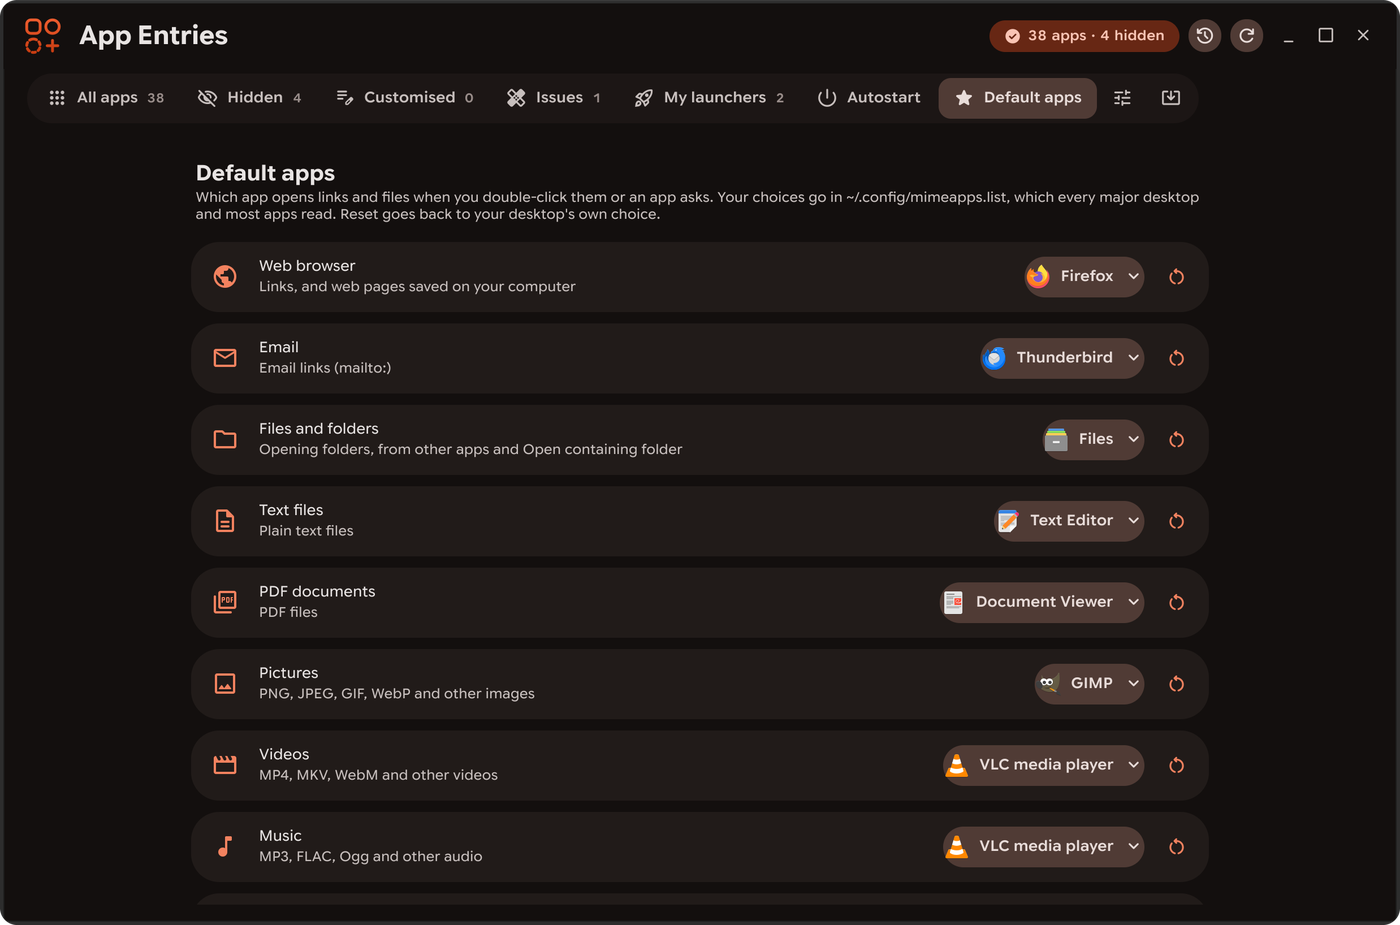
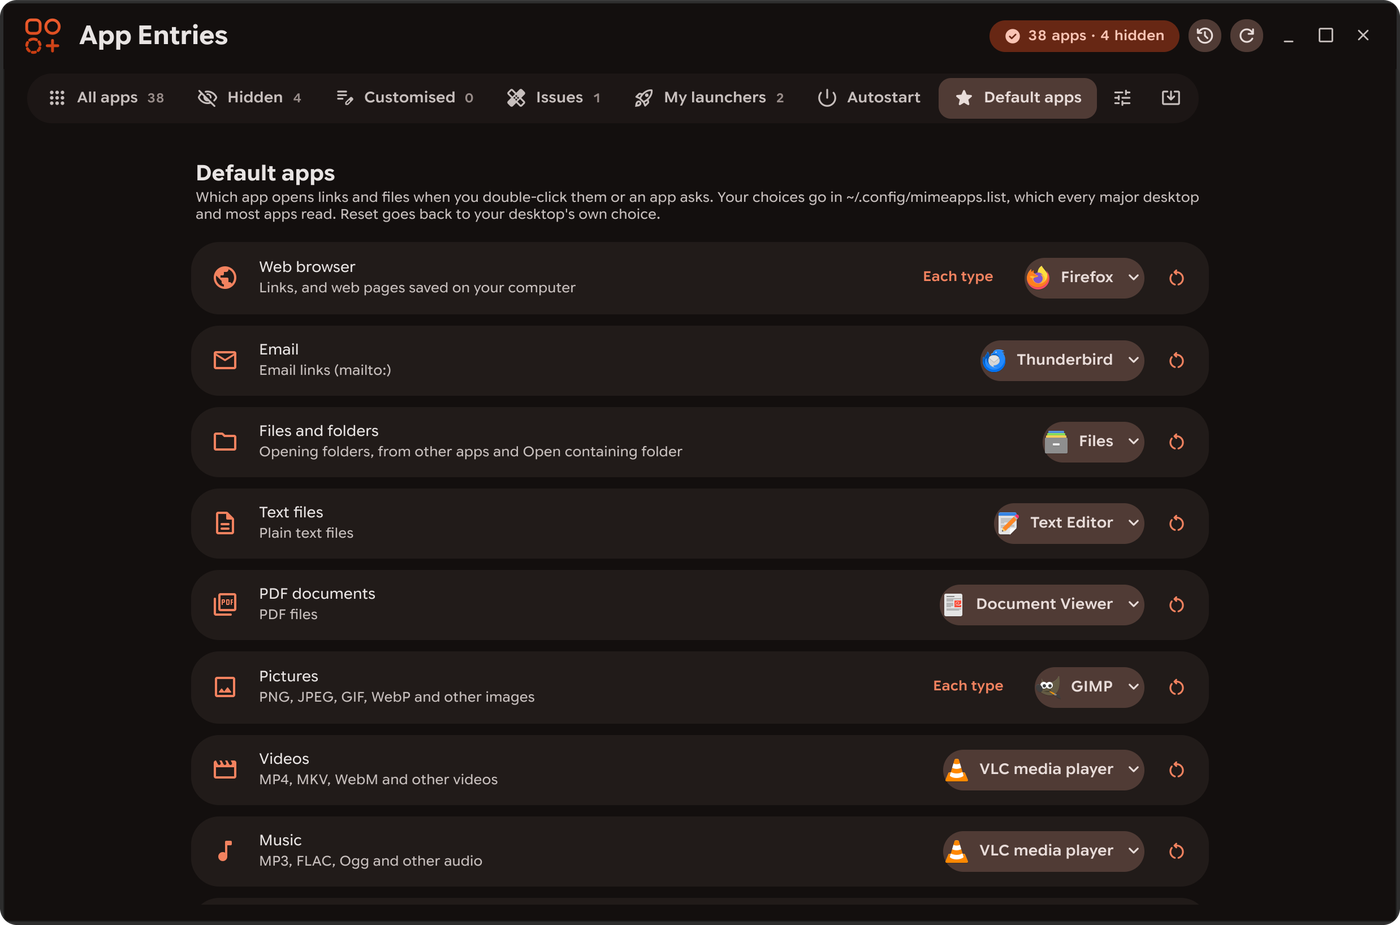
Release 1.0.7
Docs for the new features, new main and Default apps screenshots, and
the version in the usual places.

Claude-Session: https://claude.ai/code/session_01DRNCbezi7H5oaU6kT7mK9G

diff --git a/app_entries/__init__.py b/app_entries/__init__.py
@@ -2,4 +2,4 @@
 
 APP_ID = "io.github.HypestHyper.AppEntries"
 APP_NAME = "App Entries"
-VERSION = "1.0.6"
+VERSION = "1.0.7"

diff --git a/README.md b/README.md
@@ -9,7 +9,7 @@
 </p>
 
 <p align="center">
-  <img alt="Version 1.0.6" src="https://img.shields.io/badge/version-1.0.6-1f9e80">
+  <img alt="Version 1.0.7" src="https://img.shields.io/badge/version-1.0.7-1f9e80">
   <img alt="License: MIT" src="https://img.shields.io/badge/license-MIT-blue">
   <img alt="Linux" src="https://img.shields.io/badge/platform-Linux-informational">
   <img alt="Python 3.9+" src="https://img.shields.io/badge/python-3.9%2B-3776AB">
@@ -40,8 +40,10 @@
 - Hide or show an app with one switch. Hidden apps still open links and files, and stay in "Open With".
 - **Select several** to hide, show, restore, restyle or uninstall many apps at once.
 - **Edit** any entry (name, icon, command, environment, folders, desktops, quick actions) with a live view of the file. Editing a system app saves your own copy; *Restore original* puts it back.
+- **Open** any app from its card, hidden ones included. Sort A–Z or newest first; apps that appeared since App Entries last looked are marked New.
 - **Issues** finds leftover files, missing programs and duplicates, and explains each with a button to fix it.<br>
   <a href="docs/screenshots/issues.png"><img alt="The Issues tab listing an entry whose program isn't installed, with a button to hide it" src="docs/screenshots/issues.png" width="400"></a>
+- Apps you edited and then uninstalled some other way are hidden from menus with your edits kept, and the edits apply again if you reinstall. Both are options in Issues, each done once with Undo.
 - When a tab is empty because of the search, the source or the Hidden and Not in menus switches, it says how many apps they leave out, with a button to lift each.
 - **Uninstall…** for Flatpak, Snap, AppImage, Steam, Distrobox and system packages (pacman, apt, dnf, zypper, rpm-ostree, xbps, apk, eopkg, Portage and Nix). Before anything runs it shows what goes, which other apps and packages need it or go with it, whether it's a default app or starts at login, and the exact command. Data folders and advanced options (like removing what depends on it) are off unless you turn them on, with warnings. Commands that need a password run in your terminal; packages the system or your desktop needs are never offered. History keeps a Reinstall button.
 - **Helper apps…** shortcuts to the apps that set up what App Entries doesn't, opened on that app where they allow it: Flatseal, Warehouse, Gear Lever, ProtonUp-Qt, Protontricks, BoxBuddy, DistroShelf, GNOME Settings' and KDE's app permissions, your software centre and Steam. Missing ones show what they do and the Flathub command, run in your terminal only if you ask.
@@ -59,7 +61,7 @@
 
 **More**
 - **Autostart**: turn login programs on and off, or add your own.
-- **Default apps**: choose which app opens links, email, folders, text, PDFs, pictures, videos, music and archives. Uses the standard `mimeapps.list`, and also updates Xfce's and KDE's own browser settings.<br>
+- **Default apps**: choose which app opens links, email, folders, text, PDFs, pictures, videos, music and archives, for a whole kind or each type on its own. **By app** lists every file type one app opens (File types… on its card) and makes it the default for any of them. Uses the standard `mimeapps.list`, and also updates Xfce's and KDE's own browser settings.<br>
   <a href="docs/screenshots/default-apps.png"><img alt="The Default apps tab: web browser, email, files, text, PDFs, pictures, videos and music, each with the app that opens them" src="docs/screenshots/default-apps.png" width="400"></a>
 - **History** of every change, each with Undo, kept between sessions.
 - **Export / Import** your changes to set up another computer.
@@ -68,7 +70,7 @@
 - Light and dark themes and a responsive layout. The accent can follow your desktop's (GNOME and KDE settings, or the colours Noctalia, matugen, wallust and other theme tools write for GTK apps), and palettes like Catppuccin, Gruvbox, Nord, Rosé Pine, Tokyo Night, Everforest and Solarized restyle the whole app.<br>
   <a href="docs/screenshots/settings.png"><img alt="The Settings tab: accent colours with a colour picker, palettes, light or dark, and size" src="docs/screenshots/settings.png" width="400"></a>
 
-Nothing happens by itself: every option is explained, nothing is written until you press a button, and every change can be undone. App Entries never changes system files itself; only a package manager you run from it, in your terminal, does.
+Nothing happens by itself: every option is explained, nothing is written until you press a button, and every change can be undone. The one exception is hiding edited apps that were uninstalled (and showing them again on reinstall), which is on by default, shows a message with Undo, and can be turned off in Issues. App Entries never changes system files itself; only a package manager you run from it, in your terminal, does.
 
 ## Installation
 

diff --git a/NEXT.md b/NEXT.md
@@ -1,18 +1,10 @@
 # Planned for the next version
 
-## Done on the branch (not released)
+Nothing agreed yet. Ideas on hold:
 
-- Edited apps uninstalled elsewhere: hidden with their edits kept, brought
-  back on reinstall (options on the Issues page), a note on the card, an
-  Issues section, TryExec on edited copies of system apps.
-- Open button on each card.
-- Sort newest first (by when App Entries first saw each app), New badge.
-- File types per app in Default apps: Each type on every category, a By
-  app section, File types… in the card's ⋯ menu. Not done: choosing which
-  types an app offers in Open With (would edit its entry; maybe later).
-
-## Waiting for a decision
-
-### AppImage
-
-Possible, with costs; see the assessment in the session notes. Not started.
+- Choosing which file types an app offers in Open With (would edit its
+  entry, not mimeapps.list). Maybe an option in the Edit window.
+- An AppImage as an extra download. Would bundle Python and GTK 4 (about
+  60–80 MB) and must restore the original environment for every program it
+  starts. The openSUSE Build Service (.deb, .rpm, Arch from one setup) may
+  reach more people with less risk.

diff --git a/CHANGELOG.md b/CHANGELOG.md
@@ -1,6 +1,6 @@
 # Changelog
 
-## Unreleased
+## 1.0.7 — 2026-11-13
 
 - Apps you edited, then uninstalled some other way (a terminal, a software centre), no longer linger in menus. Uninstalling removes only the app's own files, so your edited copy stays behind; App Entries now hides it (NoDisplay=true, which every launcher honours) and keeps your edits. When the app is reinstalled, the hide comes off and your edits apply again. Both happen once, show a message with Undo, and are options on the Issues page.
 - The card says when that happened, and Issues lists these copies apart as "Uninstalled, your edits remain", with Remove.
